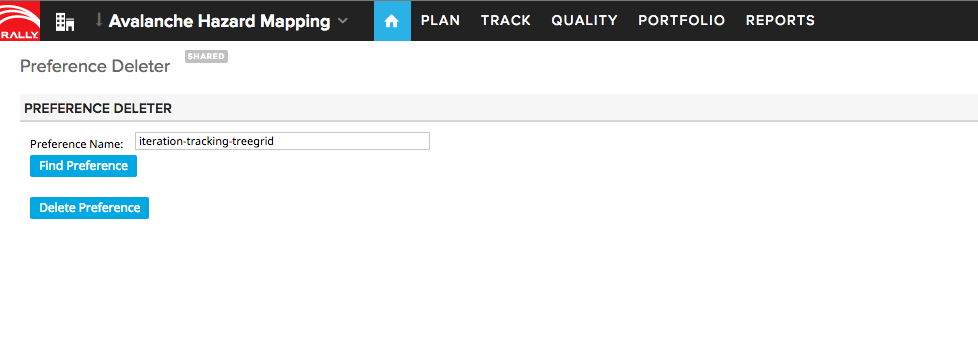
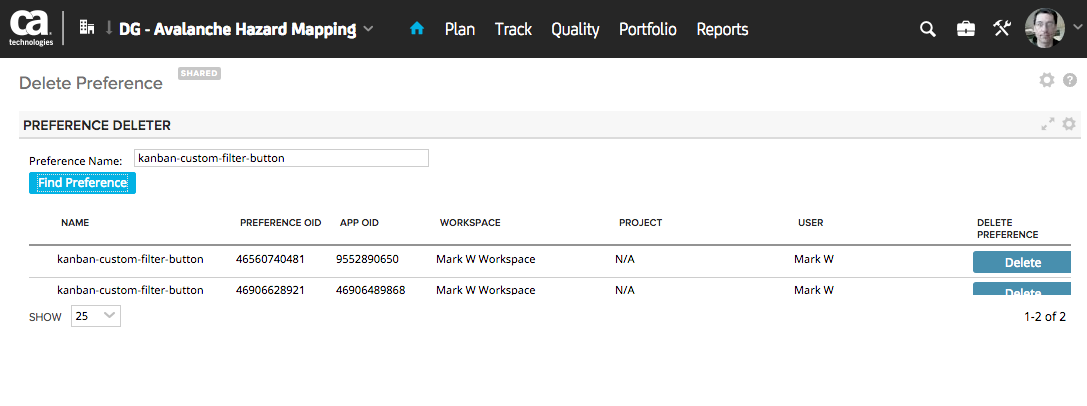
Updated to handle multiple prefs of same name via grid

diff --git a/deploy/App-external.html b/deploy/App-external.html
@@ -7,7 +7,7 @@
 
     <script type="text/javascript">
         Rally.onReady(function () {
-                Ext.define("CustomApp",{extend:"Rally.app.App",componentCls:"app",items:[{xtype:"container",itemId:"preferenceNameContainer",padding:"10",layout:{type:"vbox"},flex:1},{xtype:"container",itemId:"filterValueContainer",padding:"10"}],_workspaceObjectID:null,_workspaceRef:null,_typeFeature:null,_typeInitiative:null,_filterNameTextbox:null,_findPreferenceButton:null,_deletePreferenceButton:null,_filterSearchString:null,_preferencesStore:null,_foundPrefRecord:null,launch:function(){var me=this,currentContext=Rally.environment.getContext();me._user=currentContext.getUser(),me._workspaceObjectID=currentContext.getWorkspace().ObjectID,me._workspaceRef="/workspace/"+me._workspaceObjectID,this._buildUI(this)},_buildUI:function(me){me._filterNameTextbox=Ext.create("Rally.ui.TextField",{fieldLabel:"Preference Name:",width:400}),me.down("#preferenceNameContainer").add(me._filterNameTextbox),me._findPreferenceButton=Ext.create("Rally.ui.Button",{text:"Find Preference",handler:function(){me._queryFilterPref()}}),me.down("#preferenceNameContainer").add(me._findPreferenceButton)},_queryFilterPref:function(){var me=this;me._filterSearchString=me._filterNameTextbox.getValue(),me._preferencesStore=Ext.create("Rally.data.wsapi.Store",{model:"Preference",autoLoad:!0,fetch:!0,listeners:{scope:this,load:me._preferenceStoreLoaded},filters:[{property:"Name",operator:"=",value:me._filterSearchString}]})},_deletePreference:function(preferenceModel,scope){var me=scope;preferenceModel.destroy({callback:function(result,operation){operation.wasSuccessful()?Ext.create("Rally.ui.dialog.ConfirmDialog",{title:"Preference Deleted",message:"Preference Successfully Removed!",confirmLabel:"Ok"}):Ext.create("Rally.ui.dialog.ConfirmDialog",{title:"Preference Not Removed",message:"Error Deleting Preference!",confirmLabel:"Ok",listeners:{confirm:function(){}}})}})},_deletePreferenceHandler:function(record,scope){var me=scope,recordObjectID=record.get("ObjectID"),preferenceModel=Rally.data.ModelFactory.getModel({type:"Preference",scope:this,success:function(model,operation){model.load(recordObjectID,{scope:this,success:function(model,operation){var confirmLabel="Delete Preference Permanently",message="Really Delete Preference?";Ext.create("Rally.ui.dialog.ConfirmDialog",{message:message,confirmLabel:confirmLabel,listeners:{confirm:function(){me._deletePreference(model,me)}}})}})}})},_preferenceStoreLoaded:function(store,records){var me=this;0===records.length&&Ext.Msg.alert("Preference Not Found",me._filterSearchString),Ext.Array.each(records,function(record){var prefWorkspace=record.get("Workspace");if(prefWorkspace){var prefWorkspaceRef=prefWorkspace._ref;prefWorkspaceRef===me._workspaceRef&&(me._foundPrefRecord=record)}else me._foundPrefRecord=record;if(me._foundPrefRecord){me._filterValue=me._foundPrefRecord.get("Value");var preferenceName=me._foundPrefRecord.get("Name");Ext.Msg.alert("Preference Found: "+preferenceName,me._filterValue),me._deletePreferenceButton&&Ext.destroy(me._deletePreferenceButton),me._deletePreferenceButton=Ext.create("Rally.ui.Button",{text:"Delete Preference",handler:function(){me._deletePreferenceHandler(me._foundPrefRecord,me)}}),me.down("#filterValueContainer").add(me._deletePreferenceButton)}else Ext.Msg.alert("Preference Not Found: "+me._filterSearchString)})}});
+                Ext.define("CustomApp",{extend:"Rally.app.App",componentCls:"app",items:[{xtype:"container",itemId:"preferenceNameContainer",padding:"10",layout:{type:"vbox"},flex:1},{xtype:"container",itemId:"prefsGridContainer",padding:"10",height:800}],_workspaceObjectID:null,_workspaceRef:null,_typeFeature:null,_typeInitiative:null,_filterNameTextbox:null,_findPreferenceButton:null,_deletePreferenceButton:null,_filterSearchString:null,_preferencesStore:null,_foundPrefRecord:null,_preferencesGrid:null,launch:function(){var me=this,currentContext=Rally.environment.getContext();me._user=currentContext.getUser(),me._workspaceObjectID=currentContext.getWorkspace().ObjectID,me._workspaceRef="/workspace/"+me._workspaceObjectID,this._buildUI(this)},_buildUI:function(me){me._filterNameTextbox=Ext.create("Rally.ui.TextField",{fieldLabel:"Preference Name:",width:400}),me.down("#preferenceNameContainer").add(me._filterNameTextbox),me._findPreferenceButton=Ext.create("Rally.ui.Button",{text:"Find Preference",handler:function(){me._queryFilterPref()}}),me.down("#preferenceNameContainer").add(me._findPreferenceButton)},_queryFilterPref:function(){var me=this;me._filterSearchString=me._filterNameTextbox.getValue(),me._preferencesStore=Ext.create("Rally.data.wsapi.Store",{model:"Preference",autoLoad:!0,fetch:!0,listeners:{scope:this,load:me._preferenceStoreLoaded},filters:[{property:"Name",operator:"=",value:me._filterSearchString}]})},_deletePreference:function(preferenceModel,scope){var me=scope;preferenceModel.destroy({callback:function(result,operation){operation.wasSuccessful()?Ext.create("Rally.ui.dialog.ConfirmDialog",{title:"Preference Deleted",message:"Preference Successfully Removed!",confirmLabel:"Ok"}):Ext.create("Rally.ui.dialog.ConfirmDialog",{title:"Preference Not Removed",message:"Error Deleting Preference!",confirmLabel:"Ok",listeners:{confirm:function(){}}})}})},_deletePreferenceHandler:function(record,scope){var me=scope,recordObjectID=record.get("ObjectID"),preferenceModel=Rally.data.ModelFactory.getModel({type:"Preference",scope:this,success:function(model,operation){model.load(recordObjectID,{scope:this,success:function(model,operation){var confirmLabel="Delete Preference Permanently",message="Really Delete Preference?";Ext.create("Rally.ui.dialog.ConfirmDialog",{message:message,confirmLabel:confirmLabel,listeners:{confirm:function(){me._deletePreference(model,me)}}})}})}})},_preferenceStoreLoaded:function(store,records){var me=this;0===records.length?Ext.Msg.alert("Preference Not Found",me._filterSearchString):me._buildPreferencesGrid(records)},_buildPreferencesGrid:function(records){var me=this,data=[];Ext.Array.each(records,function(record){var userName="N/A",projectName="N/A",workspaceName="N/A",userObject=record.get("User"),projectObject=record.get("Project"),workspaceObject=record.get("Workspace"),appID=record.get("AppId");userObject&&(userName=userObject._refObjectName),projectObject&&(projectName=projectObject._refObjectName),workspaceObject&&(workspaceName=workspaceObject._refObjectName),data.push({_ref:record.get("_ref"),ObjectID:record.get("ObjectID"),AppID:appID,Name:record.get("Name"),Workspace:workspaceName,Project:projectName,User:userName})}),me._preferencesGrid&&me._preferencesGrid.destroy(),me._preferencesGrid=me.down("#prefsGridContainer").add({xtype:"rallygrid",store:Ext.create("Rally.data.custom.Store",{data:data,pageSize:20}),columnCfgs:[{text:"Name",dataIndex:"Name",flex:1},{text:"Preference OID",dataIndex:"ObjectID"},{text:"App OID",dataIndex:"AppID"},{text:"Workspace",dataIndex:"Workspace",flex:1},{text:"Project",dataIndex:"Project",flex:1},{text:"User",dataIndex:"User",flex:1},{text:"Delete Preference",renderer:function(value,model,record){var id=Ext.id();return Ext.defer(function(){Ext.widget("button",{renderTo:id,text:"Delete",width:100,handler:function(){me._deletePreferenceHandler(record,me)}})},50),Ext.String.format('<div id="{0}"></div>',id)}}]})}});
 
             Rally.launchApp('CustomApp', {
                 name:"Rally-PreferenceDeleter",

diff --git a/deploy/App.html b/deploy/App.html
@@ -7,7 +7,7 @@
 
     <script type="text/javascript">
         Rally.onReady(function () {
-                Ext.define("CustomApp",{extend:"Rally.app.App",componentCls:"app",items:[{xtype:"container",itemId:"preferenceNameContainer",padding:"10",layout:{type:"vbox"},flex:1},{xtype:"container",itemId:"filterValueContainer",padding:"10"}],_workspaceObjectID:null,_workspaceRef:null,_typeFeature:null,_typeInitiative:null,_filterNameTextbox:null,_findPreferenceButton:null,_deletePreferenceButton:null,_filterSearchString:null,_preferencesStore:null,_foundPrefRecord:null,launch:function(){var me=this,currentContext=Rally.environment.getContext();me._user=currentContext.getUser(),me._workspaceObjectID=currentContext.getWorkspace().ObjectID,me._workspaceRef="/workspace/"+me._workspaceObjectID,this._buildUI(this)},_buildUI:function(me){me._filterNameTextbox=Ext.create("Rally.ui.TextField",{fieldLabel:"Preference Name:",width:400}),me.down("#preferenceNameContainer").add(me._filterNameTextbox),me._findPreferenceButton=Ext.create("Rally.ui.Button",{text:"Find Preference",handler:function(){me._queryFilterPref()}}),me.down("#preferenceNameContainer").add(me._findPreferenceButton)},_queryFilterPref:function(){var me=this;me._filterSearchString=me._filterNameTextbox.getValue(),me._preferencesStore=Ext.create("Rally.data.wsapi.Store",{model:"Preference",autoLoad:!0,fetch:!0,listeners:{scope:this,load:me._preferenceStoreLoaded},filters:[{property:"Name",operator:"=",value:me._filterSearchString}]})},_deletePreference:function(preferenceModel,scope){var me=scope;preferenceModel.destroy({callback:function(result,operation){operation.wasSuccessful()?Ext.create("Rally.ui.dialog.ConfirmDialog",{title:"Preference Deleted",message:"Preference Successfully Removed!",confirmLabel:"Ok"}):Ext.create("Rally.ui.dialog.ConfirmDialog",{title:"Preference Not Removed",message:"Error Deleting Preference!",confirmLabel:"Ok",listeners:{confirm:function(){}}})}})},_deletePreferenceHandler:function(record,scope){var me=scope,recordObjectID=record.get("ObjectID"),preferenceModel=Rally.data.ModelFactory.getModel({type:"Preference",scope:this,success:function(model,operation){model.load(recordObjectID,{scope:this,success:function(model,operation){var confirmLabel="Delete Preference Permanently",message="Really Delete Preference?";Ext.create("Rally.ui.dialog.ConfirmDialog",{message:message,confirmLabel:confirmLabel,listeners:{confirm:function(){me._deletePreference(model,me)}}})}})}})},_preferenceStoreLoaded:function(store,records){var me=this;0===records.length&&Ext.Msg.alert("Preference Not Found",me._filterSearchString),Ext.Array.each(records,function(record){var prefWorkspace=record.get("Workspace");if(prefWorkspace){var prefWorkspaceRef=prefWorkspace._ref;prefWorkspaceRef===me._workspaceRef&&(me._foundPrefRecord=record)}else me._foundPrefRecord=record;if(me._foundPrefRecord){me._filterValue=me._foundPrefRecord.get("Value");var preferenceName=me._foundPrefRecord.get("Name");Ext.Msg.alert("Preference Found: "+preferenceName,me._filterValue),me._deletePreferenceButton&&Ext.destroy(me._deletePreferenceButton),me._deletePreferenceButton=Ext.create("Rally.ui.Button",{text:"Delete Preference",handler:function(){me._deletePreferenceHandler(me._foundPrefRecord,me)}}),me.down("#filterValueContainer").add(me._deletePreferenceButton)}else Ext.Msg.alert("Preference Not Found: "+me._filterSearchString)})}});
+                Ext.define("CustomApp",{extend:"Rally.app.App",componentCls:"app",items:[{xtype:"container",itemId:"preferenceNameContainer",padding:"10",layout:{type:"vbox"},flex:1},{xtype:"container",itemId:"prefsGridContainer",padding:"10",height:800}],_workspaceObjectID:null,_workspaceRef:null,_typeFeature:null,_typeInitiative:null,_filterNameTextbox:null,_findPreferenceButton:null,_deletePreferenceButton:null,_filterSearchString:null,_preferencesStore:null,_foundPrefRecord:null,_preferencesGrid:null,launch:function(){var me=this,currentContext=Rally.environment.getContext();me._user=currentContext.getUser(),me._workspaceObjectID=currentContext.getWorkspace().ObjectID,me._workspaceRef="/workspace/"+me._workspaceObjectID,this._buildUI(this)},_buildUI:function(me){me._filterNameTextbox=Ext.create("Rally.ui.TextField",{fieldLabel:"Preference Name:",width:400}),me.down("#preferenceNameContainer").add(me._filterNameTextbox),me._findPreferenceButton=Ext.create("Rally.ui.Button",{text:"Find Preference",handler:function(){me._queryFilterPref()}}),me.down("#preferenceNameContainer").add(me._findPreferenceButton)},_queryFilterPref:function(){var me=this;me._filterSearchString=me._filterNameTextbox.getValue(),me._preferencesStore=Ext.create("Rally.data.wsapi.Store",{model:"Preference",autoLoad:!0,fetch:!0,listeners:{scope:this,load:me._preferenceStoreLoaded},filters:[{property:"Name",operator:"=",value:me._filterSearchString}]})},_deletePreference:function(preferenceModel,scope){var me=scope;preferenceModel.destroy({callback:function(result,operation){operation.wasSuccessful()?Ext.create("Rally.ui.dialog.ConfirmDialog",{title:"Preference Deleted",message:"Preference Successfully Removed!",confirmLabel:"Ok"}):Ext.create("Rally.ui.dialog.ConfirmDialog",{title:"Preference Not Removed",message:"Error Deleting Preference!",confirmLabel:"Ok",listeners:{confirm:function(){}}})}})},_deletePreferenceHandler:function(record,scope){var me=scope,recordObjectID=record.get("ObjectID"),preferenceModel=Rally.data.ModelFactory.getModel({type:"Preference",scope:this,success:function(model,operation){model.load(recordObjectID,{scope:this,success:function(model,operation){var confirmLabel="Delete Preference Permanently",message="Really Delete Preference?";Ext.create("Rally.ui.dialog.ConfirmDialog",{message:message,confirmLabel:confirmLabel,listeners:{confirm:function(){me._deletePreference(model,me)}}})}})}})},_preferenceStoreLoaded:function(store,records){var me=this;0===records.length?Ext.Msg.alert("Preference Not Found",me._filterSearchString):me._buildPreferencesGrid(records)},_buildPreferencesGrid:function(records){var me=this,data=[];Ext.Array.each(records,function(record){var userName="N/A",projectName="N/A",workspaceName="N/A",userObject=record.get("User"),projectObject=record.get("Project"),workspaceObject=record.get("Workspace"),appID=record.get("AppId");userObject&&(userName=userObject._refObjectName),projectObject&&(projectName=projectObject._refObjectName),workspaceObject&&(workspaceName=workspaceObject._refObjectName),data.push({_ref:record.get("_ref"),ObjectID:record.get("ObjectID"),AppID:appID,Name:record.get("Name"),Workspace:workspaceName,Project:projectName,User:userName})}),me._preferencesGrid&&me._preferencesGrid.destroy(),me._preferencesGrid=me.down("#prefsGridContainer").add({xtype:"rallygrid",store:Ext.create("Rally.data.custom.Store",{data:data,pageSize:20}),columnCfgs:[{text:"Name",dataIndex:"Name",flex:1},{text:"Preference OID",dataIndex:"ObjectID"},{text:"App OID",dataIndex:"AppID"},{text:"Workspace",dataIndex:"Workspace",flex:1},{text:"Project",dataIndex:"Project",flex:1},{text:"User",dataIndex:"User",flex:1},{text:"Delete Preference",renderer:function(value,model,record){var id=Ext.id();return Ext.defer(function(){Ext.widget("button",{renderTo:id,text:"Delete",width:100,handler:function(){me._deletePreferenceHandler(record,me)}})},50),Ext.String.format('<div id="{0}"></div>',id)}}]})}});
 
             Rally.launchApp('CustomApp', {
                 name:"Rally-PreferenceDeleter",

diff --git a/App.js b/App.js
@@ -14,8 +14,10 @@ Ext.define('CustomApp', {
         },
         {
             xtype: 'container',
-            itemId: 'filterValueContainer',
-            padding: '10'
+            itemId: 'prefsGridContainer',
+            padding: '10',
+            height: 800,
+            flex: 1
         }
     ],
 
@@ -32,6 +34,8 @@ Ext.define('CustomApp', {
 
     _preferencesStore: null,
     _foundPrefRecord: null,
+
+    _preferencesGrid: null,
 
     launch: function() {
         var me = this;
@@ -156,49 +160,99 @@ Ext.define('CustomApp', {
 
         if (records.length === 0) {
             Ext.Msg.alert('Preference Not Found', me._filterSearchString);
+        } else {
+            me._buildPreferencesGrid(records);
         }
 
+    },
+
+    _buildPreferencesGrid: function(records) {
+
+        var me = this;
+
+        var data = [];
         Ext.Array.each(records, function(record) {
 
-            // If it's a workspace-specific pref, make sure we're finding/deleting the one corresponding to our
-            // Currently-scoped workspace
+            var userName = "N/A";
+            var projectName = "N/A";
+            var workspaceName = "N/A";
 
-            var prefWorkspace = record.get('Workspace');
+            var userObject = record.get('User');
+            var projectObject = record.get('Project');
+            var workspaceObject = record.get('Workspace');
+            var appID = record.get('AppId');
 
-            if (!prefWorkspace) {
-                me._foundPrefRecord = record;
-
-            } else {
-
-                var prefWorkspaceRef = prefWorkspace._ref;
-
-                if (prefWorkspaceRef === me._workspaceRef) {
-                    me._foundPrefRecord = record;
-                }
+            if (userObject) {
+                userName = userObject._refObjectName;
             }
 
-            if (!me._foundPrefRecord) {
-                Ext.Msg.alert('Preference Not Found: ' + me._filterSearchString);
-            } else {
-                me._filterValue = me._foundPrefRecord.get('Value');
-                var preferenceName = me._foundPrefRecord.get('Name');
-                Ext.Msg.alert('Preference Found: ' + preferenceName, me._filterValue);
-                // console.log(me._foundPrefRecord);
-
-                if (me._deletePreferenceButton) {
-                    Ext.destroy(me._deletePreferenceButton);
-                }
-
-                me._deletePreferenceButton = Ext.create('Rally.ui.Button', {
-                    text: "Delete Preference",
-                    handler: function() {
-                        me._deletePreferenceHandler(me._foundPrefRecord, me);
-                    }
-                });
-
-                me.down('#filterValueContainer').add(me._deletePreferenceButton);
+            if (projectObject) {
+                projectName = projectObject._refObjectName;
             }
 
+            if (workspaceObject) {
+                workspaceName = workspaceObject._refObjectName;
+            }
+
+            data.push({
+                _ref: record.get('_ref'),
+                ObjectID: record.get('ObjectID'),
+                AppID: appID,
+                Name: record.get('Name'),
+                Workspace: workspaceName,
+                Project: projectName,
+                User: userName
+            });
         });
+
+        if ( me._preferencesGrid ) {
+            me._preferencesGrid.destroy();
+        }
+
+        me._preferencesGrid = me.down('#prefsGridContainer').add({
+            xtype: 'rallygrid',
+            store: Ext.create('Rally.data.custom.Store', {
+                data: data,
+                pageSize: 20
+            }),
+            columnCfgs: [
+                {
+                    text: 'Name', dataIndex: 'Name', flex: 1
+                },
+                {
+                    text: 'Preference OID', dataIndex: 'ObjectID'
+                },
+                {
+                    text: 'App OID', dataIndex: 'AppID'
+                },
+                {
+                    text: 'Workspace', dataIndex: 'Workspace', flex: 1
+                },
+                {
+                    text: 'Project', dataIndex: 'Project', flex: 1
+                },
+                {
+                    text: 'User', dataIndex: 'User', flex: 1
+                },
+                {
+                    text: 'Delete Preference',
+                    renderer: function (value, model, record) {
+                        var id = Ext.id();
+                        Ext.defer(function () {
+                            Ext.widget('button', {
+                                renderTo: id,
+                                text: 'Delete',
+                                width: 100,
+                                handler: function () {
+                                    me._deletePreferenceHandler(record, me);
+                                }
+                            });
+                        }, 50);
+                        return Ext.String.format('<div id="{0}"></div>', id);
+                    }
+                }
+            ]
+        });
+
     }
 });

diff --git a/deploy/App-uncompressed.html b/deploy/App-uncompressed.html
@@ -23,8 +23,10 @@
         },
         {
             xtype: 'container',
-            itemId: 'filterValueContainer',
-            padding: '10'
+            itemId: 'prefsGridContainer',
+            padding: '10',
+            height: 800,
+            flex: 1
         }
     ],
 
@@ -41,6 +43,8 @@
 
     _preferencesStore: null,
     _foundPrefRecord: null,
+
+    _preferencesGrid: null,
 
     launch: function() {
         var me = this;
@@ -165,50 +169,100 @@
 
         if (records.length === 0) {
             Ext.Msg.alert('Preference Not Found', me._filterSearchString);
+        } else {
+            me._buildPreferencesGrid(records);
         }
 
+    },
+
+    _buildPreferencesGrid: function(records) {
+
+        var me = this;
+
+        var data = [];
         Ext.Array.each(records, function(record) {
 
-            // If it's a workspace-specific pref, make sure we're finding/deleting the one corresponding to our
-            // Currently-scoped workspace
+            var userName = "N/A";
+            var projectName = "N/A";
+            var workspaceName = "N/A";
 
-            var prefWorkspace = record.get('Workspace');
+            var userObject = record.get('User');
+            var projectObject = record.get('Project');
+            var workspaceObject = record.get('Workspace');
+            var appID = record.get('AppId');
 
-            if (!prefWorkspace) {
-                me._foundPrefRecord = record;
-
-            } else {
-
-                var prefWorkspaceRef = prefWorkspace._ref;
-
-                if (prefWorkspaceRef === me._workspaceRef) {
-                    me._foundPrefRecord = record;
-                }
+            if (userObject) {
+                userName = userObject._refObjectName;
             }
 
-            if (!me._foundPrefRecord) {
-                Ext.Msg.alert('Preference Not Found: ' + me._filterSearchString);
-            } else {
-                me._filterValue = me._foundPrefRecord.get('Value');
-                var preferenceName = me._foundPrefRecord.get('Name');
-                Ext.Msg.alert('Preference Found: ' + preferenceName, me._filterValue);
-                // console.log(me._foundPrefRecord);
-
-                if (me._deletePreferenceButton) {
-                    Ext.destroy(me._deletePreferenceButton);
-                }
-
-                me._deletePreferenceButton = Ext.create('Rally.ui.Button', {
-                    text: "Delete Preference",
-                    handler: function() {
-                        me._deletePreferenceHandler(me._foundPrefRecord, me);
-                    }
-                });
-
-                me.down('#filterValueContainer').add(me._deletePreferenceButton);
+            if (projectObject) {
+                projectName = projectObject._refObjectName;
             }
 
+            if (workspaceObject) {
+                workspaceName = workspaceObject._refObjectName;
+            }
+
+            data.push({
+                _ref: record.get('_ref'),
+                ObjectID: record.get('ObjectID'),
+                AppID: appID,
+                Name: record.get('Name'),
+                Workspace: workspaceName,
+                Project: projectName,
+                User: userName
+            });
         });
+
+        if ( me._preferencesGrid ) {
+            me._preferencesGrid.destroy();
+        }
+
+        me._preferencesGrid = me.down('#prefsGridContainer').add({
+            xtype: 'rallygrid',
+            store: Ext.create('Rally.data.custom.Store', {
+                data: data,
+                pageSize: 20
+            }),
+            columnCfgs: [
+                {
+                    text: 'Name', dataIndex: 'Name', flex: 1
+                },
+                {
+                    text: 'Preference OID', dataIndex: 'ObjectID'
+                },
+                {
+                    text: 'App OID', dataIndex: 'AppID'
+                },
+                {
+                    text: 'Workspace', dataIndex: 'Workspace', flex: 1
+                },
+                {
+                    text: 'Project', dataIndex: 'Project', flex: 1
+                },
+                {
+                    text: 'User', dataIndex: 'User', flex: 1
+                },
+                {
+                    text: 'Delete Preference',
+                    renderer: function (value, model, record) {
+                        var id = Ext.id();
+                        Ext.defer(function () {
+                            Ext.widget('button', {
+                                renderTo: id,
+                                text: 'Delete',
+                                width: 100,
+                                handler: function () {
+                                    me._deletePreferenceHandler(record, me);
+                                }
+                            });
+                        }, 50);
+                        return Ext.String.format('<div id="{0}"></div>', id);
+                    }
+                }
+            ]
+        });
+
     }
 });
 
